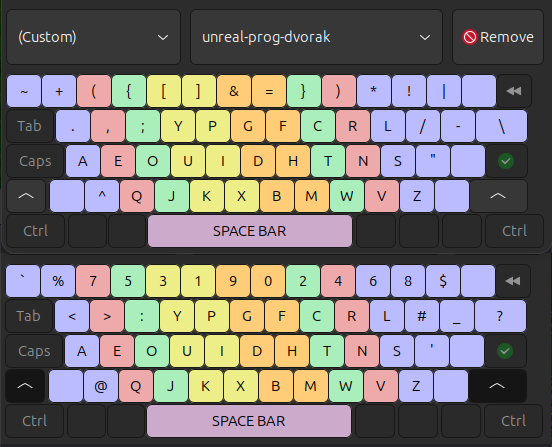
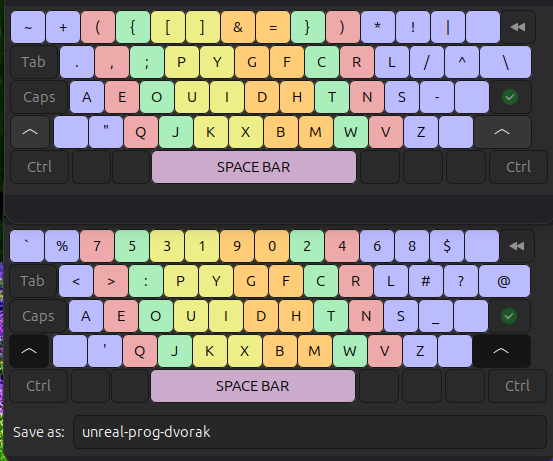
finalized unreal pd

diff --git a/xkb/README.md b/xkb/README.md
@@ -1,7 +1,7 @@
 
 # ⌨ Unreal Programmer's Dvorak — Installation Guide
 
-Complete setup instructions to deploy my custom layout mostly *The Primeagen's Real Programmer's Dvorak* with some personal tweaks.
+Complete setup instructions to deploy my custom dvorak layout .
 
 ![unreal programmers dvorak](./URPD.png)
 
@@ -38,15 +38,6 @@ stow xkb
 
 ```
 
-*(Alternative: If `stow` is not installed on the system, link paths manually using absolute targets)*
-
-```bash
-mkdir -p ~/.config/xkb
-ln -sf ~/dotfiles/xkb/.config/xkb/symbols ~/.config/xkb/symbols
-ln -sf ~/dotfiles/xkb/.config/xkb/rules ~/.config/xkb/rules
-
-```
-
 ### 4. Activate the Desktop Environment Engine
 
 #### 🦎 For CachyOS (KDE Plasma)
@@ -78,7 +69,7 @@ gsettings set org.gnome.desktop.input-sources sources "[('xkb', 'us'), ('xkb', '
 ## 🪟 Windows Setup Steps
 
 > [!WARNING]
-> This is for the original RPD. I haven't ported my own custom tweaks to windows. Plans to change later.
+> This is for the Primeagen's dvorak. I haven't ported my own custom tweaks to windows. Plans to change later.
 
 
 ### 1. Grab Your Dotfiles Tree
